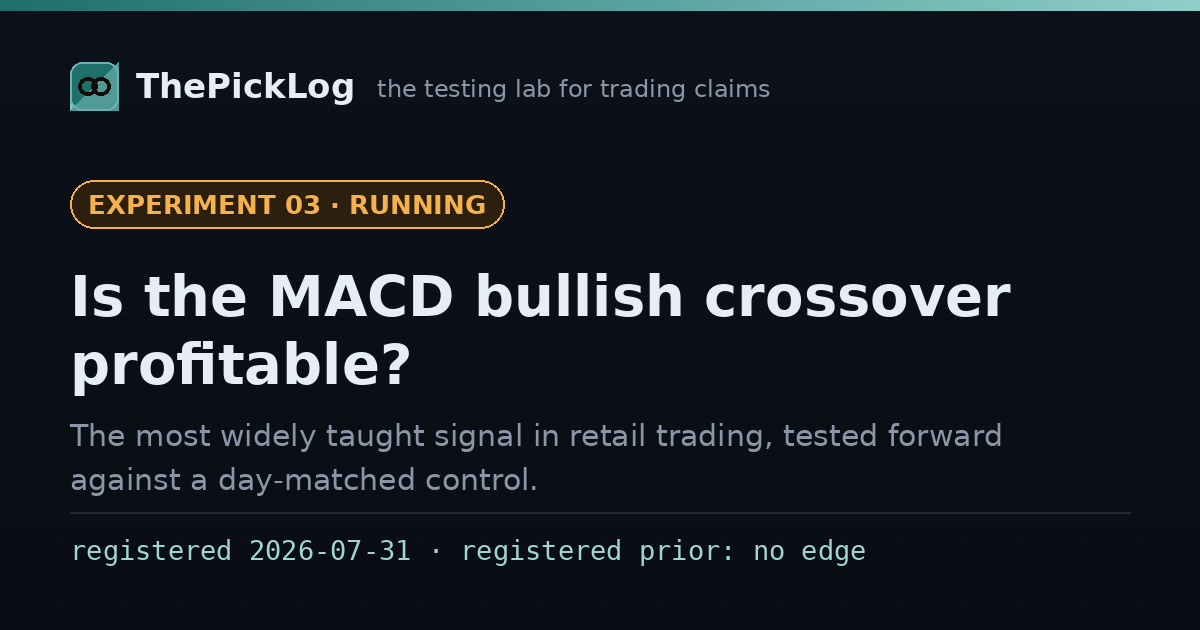
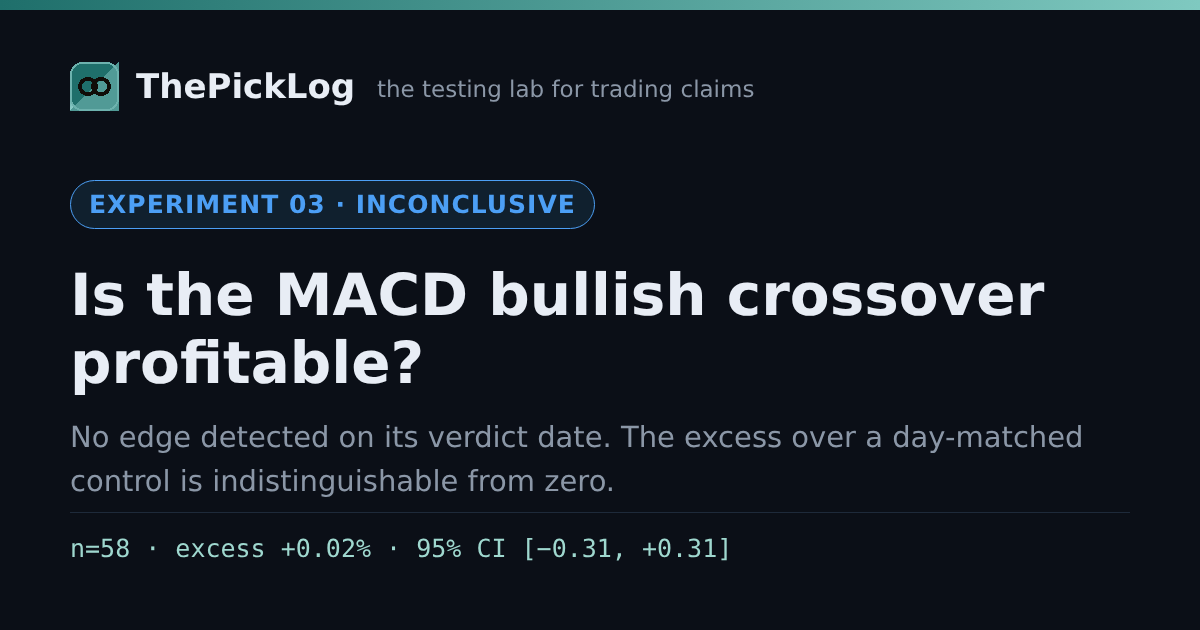
site: publish 2026-11-02 verdicts — EXP03, EXP07, EXP09 inconclusive
Three of the six family experiments met both floors on the pre-declared
verdict date and locked as NO EDGE DETECTED (-> INCONCLUSIVE under the
five-outcome legend); none survives BH across m = 8. Every number is copied
from the locked rows in experiments/HARNESS-verdicts.csv and FAMILY-fdr.csv
(fa59375). Nothing recomputed; no outcome file opened.

EXP02/06/08 had not met their floors: pages now say the date has passed
and the verdict locks automatically at the first run where they are met.

Pages, index cards, share images, feed item, sitemap, AUDIT_LOG entry.

Claude-Session: https://claude.ai/code/session_011mhJerUh5NrdKLLX2e9Rh5

diff --git a/experiments.html b/experiments.html
@@ -138,7 +138,7 @@ function toggleMenu(f){const m=document.getElementById("mobileMenu"),b=document.
     <h2 id="vcal-h" style="margin:0 0 8px;font-size:15px;letter-spacing:.04em;text-transform:uppercase">Verdict calendar</h2>
     <p style="margin:0 0 10px;font-size:14.5px">Every date below was fixed before the data it judges existed. None moves because of what the data shows.</p>
     <table style="width:100%;border-collapse:collapse;font-size:14.5px">
-      <tr><td style="padding:6px 14px 6px 0;white-space:nowrap;font-variant-numeric:tabular-nums"><b>2026-11-02</b></td><td style="padding:6px 0">Six verdicts on one date: Experiments 02, 03, 06, 07, 08 and 09, corrected together as one family</td></tr>
+      <tr id="verdicts-2026-11-02"><td style="padding:6px 14px 6px 0;white-space:nowrap;font-variant-numeric:tabular-nums"><b>2026-11-02</b></td><td style="padding:6px 0">Verdict date for 02, 03 and 06&ndash;09, corrected as one family. Read: <b>03, 07 and 09 inconclusive</b> (no edge detected); 02, 06 and 08 had not met their sample floors and lock automatically when they do</td></tr>
       <tr><td style="padding:6px 14px 6px 0;white-space:nowrap;font-variant-numeric:tabular-nums">~2027-01</td><td style="padding:6px 0">Experiment 05, first read (attribution, not a tradeable edge)</td></tr>
       <tr><td style="padding:6px 14px 6px 0;white-space:nowrap;font-variant-numeric:tabular-nums">on/after 2027-01-11</td><td style="padding:6px 0">Experiment 12, the AI-judge study, one look</td></tr>
       <tr><td style="padding:6px 14px 6px 0;white-space:nowrap;font-variant-numeric:tabular-nums">~2027-09</td><td style="padding:6px 0">Experiment 04, the turn-of-month effect</td></tr>
@@ -176,14 +176,14 @@ function toggleMenu(f){const m=document.getElementById("mobileMenu"),b=document.
     <span class="no">EXPERIMENT 02</span><span class="verdict-pill v-run">RUNNING</span>
     <h2>The 2-period RSI "high win rate" mean-reversion trade</h2>
     <p>One of the most widely published retail strategies of the last twenty years: buy a large-cap when the 2-day RSI collapses while it's still above its 200-day average. It is usually sold on its win rate. We are testing whether a high win rate survives contact with expectancy — on liquid names, where trading costs can't be blamed for the answer.</p>
-    <div class="meta">registered 2026-07-29 · verdict on/after 2026-11-02 (date fixed before looking, 2026-08-28) · universe frozen · control group logged daily</div>
+    <div class="meta">registered 2026-07-29 · verdict date 2026-11-02 passed · sample floor not yet met · the verdict locks once, automatically, at the first run where it is</div>
   </a>
 
   <a class="card" href="experiment-03.html">
-    <span class="no">EXPERIMENT 03</span><span class="verdict-pill v-run">RUNNING</span>
+    <span class="no">EXPERIMENT 03</span><span class="verdict-pill v-inc">INCONCLUSIVE</span>
     <h2>The MACD bullish crossover</h2>
     <p>Arguably the most widely taught indicator signal in retail trading — it ships on every charting platform and appears in essentially every beginner course. Which makes it the least likely thing in the world to still contain an edge, and exactly the sort of universally-believed claim nobody bothers to check. Registered prior: no edge, roughly 1 in 6 that it clears.</p>
-    <div class="meta">registered 2026-07-31 · same 40-name universe · day-matched control · live results update automatically</div>
+    <div class="meta">verdict 2026-11-02 · n=58 over 30 names · same-day excess +0.02% · 95% CI [&minus;0.31, +0.31] · BH-adjusted p = 1.00</div>
   </a>
 
   <a class="card" href="experiment-04.html">
@@ -204,28 +204,28 @@ function toggleMenu(f){const m=document.getElementById("mobileMenu"),b=document.
     <span class="no">EXPERIMENT 06</span><span class="verdict-pill v-run">RUNNING</span>
     <h2>The Supertrend flip</h2>
     <p>The most heavily marketed single indicator in retail video content, tested exactly as it is sold: default settings (10, 3), no trend filter. On forty of the most liquid stocks on earth, a signal everyone can see should already be arbitraged flat. Registered prior: no edge, roughly 1 in 6 that it clears.</p>
-    <div class="meta">registered 2026-08-06 · same 40-name universe · day-matched control · one verdict look on 2026-11-02, corrected across the 02&ndash;09 family</div>
+    <div class="meta">registered 2026-08-06 · verdict date 2026-11-02 passed · sample floor not yet met · the verdict locks once, automatically, at the first run where it is</div>
   </a>
 
   <a class="card" href="experiment-07.html">
-    <span class="no">EXPERIMENT 07</span><span class="verdict-pill v-run">RUNNING</span>
+    <span class="no">EXPERIMENT 07</span><span class="verdict-pill v-inc">INCONCLUSIVE</span>
     <h2>The moving-average pullback</h2>
     <p>Buy a stock in a long-term uptrend when it dips to its 20-day average. Probably the most widely taught swing entry in existence &mdash; and the most coherent mechanism in this batch, which earns it the highest prior: still no edge expected, roughly 1 in 5.</p>
-    <div class="meta">registered 2026-08-06 · same 40-name universe · day-matched control · one verdict look on 2026-11-02, corrected across the 02&ndash;09 family</div>
+    <div class="meta">verdict 2026-11-02 · n=138 over 31 names · same-day excess +0.04% · 95% CI [&minus;0.19, +0.28] · BH-adjusted p = 1.00</div>
   </a>
 
   <a class="card" href="experiment-08.html">
     <span class="no">EXPERIMENT 08</span><span class="verdict-pill v-run">RUNNING</span>
     <h2>Bollinger Band mean reversion</h2>
     <p>Buy the close below the lower band while the stock is above its 200-day. Sold, like Experiment 02, on its win rate &mdash; and win-rate-flattering by construction: many small reverts, occasional large losses. Tested on expectancy instead. Registered prior: roughly 1 in 6.</p>
-    <div class="meta">registered 2026-08-06 · same 40-name universe · day-matched control · one verdict look on 2026-11-02, corrected across the 02&ndash;09 family</div>
+    <div class="meta">registered 2026-08-06 · verdict date 2026-11-02 passed · sample floor not yet met · the verdict locks once, automatically, at the first run where it is</div>
   </a>
 
   <a class="card" href="experiment-09.html">
-    <span class="no">EXPERIMENT 09</span><span class="verdict-pill v-run">RUNNING</span>
+    <span class="no">EXPERIMENT 09</span><span class="verdict-pill v-inc">INCONCLUSIVE</span>
     <h2>Volatility contraction (NR7) in an uptrend</h2>
     <p>That a quiet day precedes a big day is documented. That the big day goes <i>up</i> is the part that is sold &mdash; and the part with no documented edge. One disclosed deviation: we enter at the next open, not on an intraday breakout. Registered prior: roughly 1 in 6.</p>
-    <div class="meta">registered 2026-08-06 · same 40-name universe · day-matched control · one verdict look on 2026-11-02, corrected across the 02&ndash;09 family</div>
+    <div class="meta">verdict 2026-11-02 · n=140 over 33 names · same-day excess &minus;0.06% · 95% CI [&minus;0.29, +0.15] · BH-adjusted p = 1.00</div>
   </a>
 
   <a class="card" href="experiment-12.html">

diff --git a/experiment-09.html b/experiment-09.html
@@ -7,7 +7,7 @@
 <meta name="description" content="The NR7 volatility-contraction setup in an uptrend, tested forward with the rule, universe, costs and pass bar frozen in advance &mdash; including a disclosed deviation from the version that is sold.">
 <link rel="canonical" href="https://thepicklog.com/experiment-09.html">
 <meta property="og:title" content="Does a quiet day predict a move up?">
-<meta property="og:description" content="Volatility contraction (NR7) in an uptrend, tested forward against a day-matched control. Rule frozen, verdict published either way.">
+<meta property="og:description" content="Verdict 2026-11-02: inconclusive. No edge detected over 140 trades; the excess over a day-matched control is indistinguishable from zero.">
 <meta property="og:type" content="article">
 <style>
   :root{--a-text:#31b3aa;--bg:#0a0e14;--panel:#121826;--panel2:#0f1521;--line:#1f2937;--tx:#e6edf3;--dim:#8b97a7;
@@ -137,14 +137,16 @@ function toggleMenu(f){const m=document.getElementById("mobileMenu"),b=document.
 </script>
 
 <div class="wrap" id="main" tabindex="-1">
-  <span class="no">EXPERIMENT 09 · REGISTERED 2026-08-06 · RUNNING</span>
+  <span class="no">EXPERIMENT 09 · REGISTERED 2026-08-06 · VERDICT 2026-11-02 · INCONCLUSIVE</span>
   <h1>The quiet before the breakout</h1>
   <p class="standfirst">Breakout courses teach that the narrowest trading range in a week &mdash; an &ldquo;NR7&rdquo; day &mdash; is a coiled spring, and that in an uptrend it springs upward. This page is the rule, frozen, before the trades existed, including one place where our test differs from what is sold.</p>
 
-  <div class="status">
-    <div class="h">STATUS</div>
-    <div class="b">Registered and running. Verdict date: 2026-11-02.</div>
-    <p>Signals are logged automatically after each close and graded five sessions later. No verdict language of any kind is computed before 2026-11-02, and none is computed then unless both sample floors below are met. The running count is in the <a href="reports/experiments-LATEST.md">live experiments report</a>, regenerated by the scheduled job &mdash; and the verdict will be published here either way.</p>
+  <div class="status" style="border-color:#24405a;background:#10202e">
+    <div class="h" style="color:var(--blue)">VERDICT &middot; 2026-11-02 &middot; INCONCLUSIVE</div>
+    <div class="b">No edge detected. The excess is indistinguishable from zero.</div>
+    <p>140 post-registration trades over 33 companies &middot; same-day excess over the day-matched control, net of costs: mean <b>&minus;0.06%</b>, median <b>&minus;0.01%</b> &middot; company-clustered 95% CI <b>[&minus;0.29, +0.15]</b> percentage points, which includes zero.</p>
+    <p style="margin-top:8px">Across the declared family of eight experiments (02&ndash;09), Benjamini&ndash;Hochberg adjusted p = 1.00 (raw two-sided p = 0.65): <b>no discovery to correct</b>. Our registered prior was exactly this. &ldquo;Inconclusive&rdquo; is not &ldquo;failed&rdquo;: the interval rules out a large edge in either direction, but it neither confirms nor refutes a small one. <b>Disclosed deviation:</b> entry is the next session&rsquo;s open, not an intraday break of the NR7 range, because our pre-open logging gate forbids acting on the open print.</p>
+    <p style="margin-top:8px">Computed once, at the pre-declared verdict date, written to an append-only file and never recomputed: see the <code>EXP09-NR7</code> rows in <a href="experiments/HARNESS-verdicts.csv">HARNESS-verdicts.csv</a> and <a href="experiments/FAMILY-fdr.csv">FAMILY-fdr.csv</a>, and the <a href="reports/family-verdict-LATEST.md">family verdict report</a>. Scope: this rule, on these 40 names, over this window &mdash; not evidence about volatility contraction in general, or an intraday breakout entry. Experiments 06&ndash;09 share one universe, so they are correlated tests, not independent replications.</p>
   </div>
 
   <h2>Why this one</h2>
@@ -195,7 +197,7 @@ function toggleMenu(f){const m=document.getElementById("mobileMenu"),b=document.
   <p>And if it <i>does</i> clear the bar, we will say so &mdash; and then say how many other things we tested at the same time, because that is the number that tells you how surprised to be.</p>
 
   <h2>How you&rsquo;ll be able to check it</h2>
-  <p>Every signal is written to <code>experiments/EXP09-NR7-signals.csv</code> before its entry session, and the graded outcomes alongside it &mdash; both public and append-only. The frozen rule lives in <a href="HYPOTHESES.md">HYPOTHESES.md</a> as H-EXP09 (registration batch #10), with the constants in <code>experiment_harness.py</code>. The verdict is written once to an append-only verdicts file, recorded in the <a href="AUDIT_LOG.md">audit log</a>, and written up on this page.</p>
+  <p>Every signal is written to <code>experiments/EXP09-NR7-signals.csv</code> before its entry session, and the graded outcomes alongside it &mdash; both public and append-only. The frozen rule lives in <a href="HYPOTHESES.md">HYPOTHESES.md</a> as H-EXP09 (registration batch #10), with the constants in <code>experiment_harness.py</code>. The verdict is written once to an append-only verdicts file, recorded in the <a href="AUDIT_LOG.md">audit log</a>, and written up at the top of this page.</p>
   <p>If we change any constant in that rule, the test is void and we&rsquo;ll say so. That&rsquo;s the deal on every experiment here.</p>
 
   <div class="box">

diff --git a/experiment-03.html b/experiment-03.html
@@ -7,7 +7,7 @@
 <meta name="description" content="The most widely taught indicator signal in retail trading, tested forward with the rule, the universe, the costs and the pass bar frozen in advance. Verdict published either way.">
 <link rel="canonical" href="https://thepicklog.com/experiment-03.html">
 <meta property="og:title" content="Is the MACD bullish crossover profitable?">
-<meta property="og:description" content="It ships on every charting platform and appears in every beginner course. Rule frozen, control logged daily, verdict published either way.">
+<meta property="og:description" content="Verdict 2026-11-02: inconclusive. No edge detected over 58 trades; the excess over a day-matched control is indistinguishable from zero.">
 <meta property="og:type" content="article">
 <style>
   :root{--a-text:#31b3aa;--bg:#0a0e14;--panel:#121826;--panel2:#0f1521;--line:#1f2937;--tx:#e6edf3;--dim:#8b97a7;
@@ -137,14 +137,16 @@ function toggleMenu(f){const m=document.getElementById("mobileMenu"),b=document.
 </script>
 
 <div class="wrap" id="main" tabindex="-1">
-  <span class="no">EXPERIMENT 03 · REGISTERED 2026-07-31 · RUNNING</span>
+  <span class="no">EXPERIMENT 03 · REGISTERED 2026-07-31 · VERDICT 2026-11-02 · INCONCLUSIVE</span>
   <h1>The most-taught signal in retail trading</h1>
   <p class="standfirst">The MACD bullish crossover ships on every charting platform and appears in essentially every beginner course. It is so widely known that finding an edge in it would be genuinely surprising — which is exactly why nobody seems to have checked. This page is the rule, frozen, before the trades exist.</p>
 
-  <div class="status">
-    <div class="h">STATUS</div>
-    <div class="b">Registered and running. Verdict date: 2026-11-02.</div>
-    <p>Signals are logged automatically after each close and graded five sessions later. No verdict language is computed before 2026-11-02, and none then unless at least 30 post-registration trades over at least 20 different companies are graded. The running count and the current numbers are in the <a href="reports/experiments-LATEST.md">live experiments report</a>, regenerated by the scheduled job — and the verdict will be published here either way.</p>
+  <div class="status" style="border-color:#24405a;background:#10202e">
+    <div class="h" style="color:var(--blue)">VERDICT &middot; 2026-11-02 &middot; INCONCLUSIVE</div>
+    <div class="b">No edge detected. The excess is indistinguishable from zero.</div>
+    <p>58 post-registration trades over 30 companies &middot; same-day excess over the day-matched control, net of costs: mean <b>+0.02%</b>, median <b>+0.12%</b> &middot; company-clustered 95% CI <b>[&minus;0.31, +0.31]</b> percentage points, which includes zero.</p>
+    <p style="margin-top:8px">Across the declared family of eight experiments (02&ndash;09), Benjamini&ndash;Hochberg adjusted p = 1.00 (raw two-sided p = 0.89): <b>no discovery to correct</b>. Our registered prior was exactly this. &ldquo;Inconclusive&rdquo; is not &ldquo;failed&rdquo;: the interval rules out a large edge in either direction, but it neither confirms nor refutes a small one.</p>
+    <p style="margin-top:8px">Computed once, at the pre-declared verdict date, written to an append-only file and never recomputed: see the <code>EXP03-MACD</code> rows in <a href="experiments/HARNESS-verdicts.csv">HARNESS-verdicts.csv</a> and <a href="experiments/FAMILY-fdr.csv">FAMILY-fdr.csv</a>, and the <a href="reports/family-verdict-LATEST.md">family verdict report</a>. Scope: this rule, on these 40 names, over this window &mdash; not evidence about MACD in general, or trend following as a family. Experiments 06&ndash;09 share one universe, so they are correlated tests, not independent replications.</p>
   </div>
 
   <h2>Why this one</h2>
@@ -190,7 +192,7 @@ function toggleMenu(f){const m=document.getElementById("mobileMenu"),b=document.
   <p>And if it <i>does</i> clear the bar, that is a genuinely surprising result and we will say so — with the same caveats about scope that apply to every verdict here.</p>
 
   <h2>How you'll be able to check it</h2>
-  <p>Every signal is written to <code>experiments/EXP03-MACD-signals.csv</code> before its entry session, and the graded outcomes alongside it — both public and append-only. The complete frozen rule lives in <a href="HYPOTHESES.md">HYPOTHESES.md</a> as H-EXP03, dated, with the constants in <code>experiment_harness.py</code>. The running numbers regenerate into the <a href="reports/experiments-LATEST.md">live experiments report</a>, and the verdict will be recorded in the <a href="AUDIT_LOG.md">audit log</a> and written up on this page.</p>
+  <p>Every signal is written to <code>experiments/EXP03-MACD-signals.csv</code> before its entry session, and the graded outcomes alongside it — both public and append-only. The complete frozen rule lives in <a href="HYPOTHESES.md">HYPOTHESES.md</a> as H-EXP03, dated, with the constants in <code>experiment_harness.py</code>. The running numbers regenerate into the <a href="reports/experiments-LATEST.md">live experiments report</a>, and the verdict is recorded in the <a href="AUDIT_LOG.md">audit log</a> and written up at the top of this page.</p>
   <p>If we change any constant in that rule, the test is void and we'll say so. That's the deal on every experiment here.</p>
 
   <div class="box">

diff --git a/experiment-07.html b/experiment-07.html
@@ -7,7 +7,7 @@
 <meta name="description" content="The moving-average pullback &mdash; buy the dip to the 20-day in an uptrend &mdash; tested forward with the rule, universe, costs and pass bar frozen in advance.">
 <link rel="canonical" href="https://thepicklog.com/experiment-07.html">
 <meta property="og:title" content="Does buying the pullback in an uptrend work?">
-<meta property="og:description" content="The most widely taught swing-trading entry, tested forward against a day-matched control. Rule frozen, verdict published either way.">
+<meta property="og:description" content="Verdict 2026-11-02: inconclusive. No edge detected over 138 trades; the excess over a day-matched control is indistinguishable from zero.">
 <meta property="og:type" content="article">
 <style>
   :root{--a-text:#31b3aa;--bg:#0a0e14;--panel:#121826;--panel2:#0f1521;--line:#1f2937;--tx:#e6edf3;--dim:#8b97a7;
@@ -137,14 +137,16 @@ function toggleMenu(f){const m=document.getElementById("mobileMenu"),b=document.
 </script>
 
 <div class="wrap" id="main" tabindex="-1">
-  <span class="no">EXPERIMENT 07 · REGISTERED 2026-08-06 · RUNNING</span>
+  <span class="no">EXPERIMENT 07 · REGISTERED 2026-08-06 · VERDICT 2026-11-02 · INCONCLUSIVE</span>
   <h1>Buy the dip in an uptrend</h1>
   <p class="standfirst">Nearly every swing-trading course teaches some version of it: wait for a stock in a long-term uptrend to pull back to its 20-day average, then buy the bounce. It is probably the most widely taught entry in existence. This page is the rule, frozen, before the trades existed.</p>
 
-  <div class="status">
-    <div class="h">STATUS</div>
-    <div class="b">Registered and running. Verdict date: 2026-11-02.</div>
-    <p>Signals are logged automatically after each close and graded five sessions later. No verdict language of any kind is computed before 2026-11-02, and none is computed then unless both sample floors below are met. The running count is in the <a href="reports/experiments-LATEST.md">live experiments report</a>, regenerated by the scheduled job &mdash; and the verdict will be published here either way.</p>
+  <div class="status" style="border-color:#24405a;background:#10202e">
+    <div class="h" style="color:var(--blue)">VERDICT &middot; 2026-11-02 &middot; INCONCLUSIVE</div>
+    <div class="b">No edge detected. The excess is indistinguishable from zero.</div>
+    <p>138 post-registration trades over 31 companies &middot; same-day excess over the day-matched control, net of costs: mean <b>+0.04%</b>, median <b>+0.17%</b> &middot; company-clustered 95% CI <b>[&minus;0.19, +0.28]</b> percentage points, which includes zero.</p>
+    <p style="margin-top:8px">Across the declared family of eight experiments (02&ndash;09), Benjamini&ndash;Hochberg adjusted p = 1.00 (raw two-sided p = 0.73): <b>no discovery to correct</b>. Our registered prior was exactly this. &ldquo;Inconclusive&rdquo; is not &ldquo;failed&rdquo;: the interval rules out a large edge in either direction, but it neither confirms nor refutes a small one.</p>
+    <p style="margin-top:8px">Computed once, at the pre-declared verdict date, written to an append-only file and never recomputed: see the <code>EXP07-SMAPULL</code> rows in <a href="experiments/HARNESS-verdicts.csv">HARNESS-verdicts.csv</a> and <a href="experiments/FAMILY-fdr.csv">FAMILY-fdr.csv</a>, and the <a href="reports/family-verdict-LATEST.md">family verdict report</a>. Scope: this rule, on these 40 names, over this window &mdash; not evidence about pullback trading in general, or other moving averages and universes. Experiments 06&ndash;09 share one universe, so they are correlated tests, not independent replications.</p>
   </div>
 
   <h2>Why this one</h2>
@@ -190,7 +192,7 @@ function toggleMenu(f){const m=document.getElementById("mobileMenu"),b=document.
   <p>And if it <i>does</i> clear the bar, we will say so &mdash; and then say how many other things we tested at the same time, because that is the number that tells you how surprised to be.</p>
 
   <h2>How you&rsquo;ll be able to check it</h2>
-  <p>Every signal is written to <code>experiments/EXP07-SMAPULL-signals.csv</code> before its entry session, and the graded outcomes alongside it &mdash; both public and append-only. The frozen rule lives in <a href="HYPOTHESES.md">HYPOTHESES.md</a> as H-EXP07 (registration batch #10), with the constants in <code>experiment_harness.py</code>. The verdict is written once to an append-only verdicts file, recorded in the <a href="AUDIT_LOG.md">audit log</a>, and written up on this page.</p>
+  <p>Every signal is written to <code>experiments/EXP07-SMAPULL-signals.csv</code> before its entry session, and the graded outcomes alongside it &mdash; both public and append-only. The frozen rule lives in <a href="HYPOTHESES.md">HYPOTHESES.md</a> as H-EXP07 (registration batch #10), with the constants in <code>experiment_harness.py</code>. The verdict is written once to an append-only verdicts file, recorded in the <a href="AUDIT_LOG.md">audit log</a>, and written up at the top of this page.</p>
   <p>If we change any constant in that rule, the test is void and we&rsquo;ll say so. That&rsquo;s the deal on every experiment here.</p>
 
   <div class="box">

diff --git a/index.html b/index.html
@@ -210,6 +210,7 @@
     border-radius:999px;vertical-align:middle;margin-left:6px;font-family:inherit}
   .exp-pill.v-fail{background:#3a1c22;color:#ffb3c0;border:1px solid #5a2a33}
   .exp-pill.v-run{background:#2a1d10;color:var(--amber);border:1px solid #5a3a22}
+  .exp-pill.v-inc{background:#10202e;color:var(--blue);border:1px solid #24405a}
   .exp-pill.v-pass{background:#12331f;color:var(--green);border:1px solid #23543a}
   .exp-meta{margin-top:11px;font-size:11.5px;color:var(--muted);font-family:var(--mono);opacity:.8}
   /* waitlist capture on the coming-soon tiers */
@@ -580,7 +581,7 @@
         <h2 style="margin:0;font-size:19px">The experiments</h2>
         <a href="experiments.html" style="margin-left:auto;font-size:13.5px;color:var(--blue);text-decoration:none">All experiments &amp; how they work &rarr;</a>
       </div>
-      <p class="muted" style="font-size:13.5px;margin:6px 0 0;max-width:78ch"><b>One finished. Nine running in public right now.</b> Each is a claim someone is selling, written down as an exact rule with a date, then graded forward against a control it has to beat.</p>
+      <p class="muted" style="font-size:13.5px;margin:6px 0 0;max-width:78ch"><b>Four decided, six running in public right now.</b> Each is a claim someone is selling, written down as an exact rule with a date, then graded forward against a control it has to beat.</p>
       <div class="grid exp-cards">
         <a class="panel exp-card" href="experiment-01.html">
           <div class="exp-no">EXPERIMENT 01 <span class="exp-pill v-fail">FAILED</span></div>
@@ -592,13 +593,13 @@
           <div class="exp-no">EXPERIMENT 02 <span class="exp-pill v-run">RUNNING</span></div>
           <h3>The 2-period RSI "high win rate" trade</h3>
           <p>The most published retail setup of the last twenty years, always sold on its win rate. We're testing whether a high win rate survives contact with expectancy.</p>
-          <div class="exp-meta">registered 2026-07-29 &middot; <b>verdict on/after 2 Nov 2026</b></div>
+          <div class="exp-meta">registered 2026-07-29 &middot; <b>verdict date passed; locks when the sample floor is met</b></div>
         </a>
         <a class="panel exp-card" href="experiment-03.html">
-          <div class="exp-no">EXPERIMENT 03 <span class="exp-pill v-run">RUNNING</span></div>
+          <div class="exp-no">EXPERIMENT 03 <span class="exp-pill v-inc">INCONCLUSIVE</span></div>
           <h3>The MACD bullish crossover</h3>
-          <p>The most widely taught indicator signal in retail trading — which makes it the least likely to still contain an edge, and exactly the claim nobody bothers to check.</p>
-          <div class="exp-meta">registered 2026-07-31 &middot; <b>verdict due 2 Nov 2026</b></div>
+          <p>The most widely taught indicator signal in retail trading. Read on its verdict date: no edge detected &mdash; as were the moving-average pullback (07) and NR7 (09).</p>
+          <div class="exp-meta">verdict 2026-11-02 &middot; n=58 &middot; <b>excess +0.02%, CI includes zero</b></div>
         </a>
         <a class="panel exp-card" href="experiment-04.html">
           <div class="exp-no">EXPERIMENT 04 <span class="exp-pill v-run">RUNNING</span></div>

diff --git a/guide.html b/guide.html
@@ -220,7 +220,7 @@ function toggleMenu(force){
   <p class="flag r">✕ Red flag: "read the model's reasoning" offered in place of a comparison against the simpler alternative.</p>
 
   <div class="panel">
-    <b>Where we stand on 8&ndash;10.</b> #8: partly. Our 25-test calendar sweep was corrected for multiple testing (none survived), and <a href="how-many-did-you-test.html">our own count of tests is published</a>. The experiments running now are registered as one family with a Benjamini&ndash;Hochberg correction declared in advance; that correction was built into code on 23 October 2026, before any of them was read, and is applied mechanically on the 2 November read (<code>family_verdict.py</code>). #9: yes &mdash; every verdict carries a 95% interval built on the right independent unit: the company for the stock-picking tests, the monthly cycle or the week for the calendar tests, never the single trade. #10: we don&rsquo;t publish an AI&rsquo;s calls yet. When we do, it will be graded against the plain score it sees and checked for calibration, exactly as described above, before any of its output is shown as more than a test.
+    <b>Where we stand on 8&ndash;10.</b> #8: partly. Our 25-test calendar sweep was corrected for multiple testing (none survived), and <a href="how-many-did-you-test.html">our own count of tests is published</a>. The experiments running now are registered as one family with a Benjamini&ndash;Hochberg correction declared in advance; that correction was built into code on 23 October 2026, before any of them was read, and was applied mechanically on the 2 November read (<code>family_verdict.py</code>): three experiments locked, none survived it, and the rest are corrected the same way when they lock. #9: yes &mdash; every verdict carries a 95% interval built on the right independent unit: the company for the stock-picking tests, the monthly cycle or the week for the calendar tests, never the single trade. #10: we don&rsquo;t publish an AI&rsquo;s calls yet. When we do, it will be graded against the plain score it sees and checked for calibration, exactly as described above, before any of its output is shown as more than a test.
   </div>
 
   <h2>The 60-second version</h2>

diff --git a/experiment-02.html b/experiment-02.html
@@ -144,7 +144,8 @@ function toggleMenu(f){const m=document.getElementById("mobileMenu"),b=document.
 
   <div class="status">
     <div class="h">STATUS</div>
-    <div class="b">Registered and running. No verdict yet.</div>
+    <div class="b">Past its verdict date (2026-11-02). Sample floor not yet met, so no verdict yet.</div>
+    <p style="margin-bottom:8px">On 2026-11-02 this experiment had not yet reached both pre-registered floors (at least 30 graded trades <i>and</i> at least 20 different companies). Under the rule fixed in advance, the verdict is computed automatically, once, at the first daily run where both floors are met, and published here either way. Until then the page shows no verdict language. The running count is in the <a href="reports/experiments-LATEST.md">live experiments report</a>.</p>
     <p>Signals are logged automatically each session and graded five sessions later. <b>The verdict is written once, on or after 2 November 2026</b>, and published whether it passes or fails.</p>
     <p><b>Why not September, as this page first said.</b> When we registered this test we said "around September, once 30 trades exist." On 28 August, before opening any outcome file, we noticed that wording left the verdict date open: we could have declared it on whichever week the result first looked good. That is the multiple-looks problem this site exists to catch in other people's records. So we fixed one evaluation date in advance (2 November, the date already set for Experiments 03 and 06–09, so the whole family can be corrected for multiple testing together) and added a floor of at least 20 distinct companies. Both changes can only make a pass harder. The amendment is dated in <a href="HYPOTHESES.md">HYPOTHESES.md</a>. This page should have said so at the time; it now does.</p>
   </div>

diff --git a/experiment-06.html b/experiment-06.html
@@ -143,7 +143,8 @@ function toggleMenu(f){const m=document.getElementById("mobileMenu"),b=document.
 
   <div class="status">
     <div class="h">STATUS</div>
-    <div class="b">Registered and running. Verdict date: 2026-11-02.</div>
+    <div class="b">Past its verdict date (2026-11-02). Sample floor not yet met, so no verdict yet.</div>
+    <p style="margin-bottom:8px">On 2026-11-02 this experiment had not yet reached both pre-registered floors (at least 30 graded trades <i>and</i> at least 20 different companies). Under the rule fixed in advance, the verdict is computed automatically, once, at the first daily run where both floors are met, and published here either way. Until then the page shows no verdict language. The running count is in the <a href="reports/experiments-LATEST.md">live experiments report</a>.</p>
     <p>Signals are logged automatically after each close and graded five sessions later. No verdict language of any kind is computed before 2026-11-02, and none is computed then unless both sample floors below are met. The running count is in the <a href="reports/experiments-LATEST.md">live experiments report</a>, regenerated by the scheduled job &mdash; and the verdict will be published here either way.</p>
   </div>
 

diff --git a/experiment-08.html b/experiment-08.html
@@ -143,7 +143,8 @@ function toggleMenu(f){const m=document.getElementById("mobileMenu"),b=document.
 
   <div class="status">
     <div class="h">STATUS</div>
-    <div class="b">Registered and running. Verdict date: 2026-11-02.</div>
+    <div class="b">Past its verdict date (2026-11-02). Sample floor not yet met, so no verdict yet.</div>
+    <p style="margin-bottom:8px">On 2026-11-02 this experiment had not yet reached both pre-registered floors (at least 30 graded trades <i>and</i> at least 20 different companies). Under the rule fixed in advance, the verdict is computed automatically, once, at the first daily run where both floors are met, and published here either way. Until then the page shows no verdict language. The running count is in the <a href="reports/experiments-LATEST.md">live experiments report</a>.</p>
     <p>Signals are logged automatically after each close and graded five sessions later. No verdict language of any kind is computed before 2026-11-02, and none is computed then unless both sample floors below are met. The running count is in the <a href="reports/experiments-LATEST.md">live experiments report</a>, regenerated by the scheduled job &mdash; and the verdict will be published here either way.</p>
   </div>
 

diff --git a/AUDIT_LOG.md b/AUDIT_LOG.md
@@ -1,5 +1,19 @@
 # ThePickLog — Audit Log
 
+## 2026-11-06 — Change: 2026-11-02 verdicts published (EXP03, EXP07, EXP09 — INCONCLUSIVE)
+
+The single pre-declared verdict read for the EXP02–09 family ran on 2026-11-02. Three experiments met both floors and locked; this change publishes them. **Nothing was recomputed.**
+
+- **Source of every number:** the locked rows in `experiments/HARNESS-verdicts.csv` and `experiments/FAMILY-fdr.csv` as committed in `fa59375` (2026-11-02). No signal or outcome file was opened to write the pages; the values were copied by script from those two files.
+- **Locked results** (same-day excess over the day-matched control, net of 0.1% cost; company-clustered 95% CI; BH across m = 8, unlocked experiments counted as p = 1):
+  - EXP03-MACD — n = 58 over 30 names; mean +0.023%, median +0.117%; CI [−0.307, +0.313]; p = 0.887, BH-adjusted 1.0.
+  - EXP07-SMAPULL — n = 138 over 31 names; mean +0.042%, median +0.173%; CI [−0.189, +0.277]; p = 0.733, BH-adjusted 1.0.
+  - EXP09-NR7 — n = 140 over 33 names; mean −0.057%, median −0.011%; CI [−0.295, +0.153]; p = 0.651, BH-adjusted 1.0.
+- **Verdict word:** harness "NO EDGE DETECTED" (CI includes zero) maps to **INCONCLUSIVE** under the five-outcome legend on `experiments.html`. Not described as a failure anywhere.
+- **Not locked:** EXP02, EXP06 and EXP08 had not met both floors (≥ 30 graded, ≥ 20 names) on 2026-11-02. Their pages now say the date has passed and the verdict locks automatically, once, at the first run where the floors are met. No running number was added to any page for them.
+- **Changed:** `experiment-03/07/09.html` (verdict box replaces the status box; og/twitter descriptions), `experiment-02/06/08.html` (status wording), `experiments.html` (pills, meta lines, verdict-calendar row), `index.html` (headline count, Exp 03 card, Exp 02 meta), `guide.html` (one sentence: the BH read happened), share images `og/experiment-03/07/09.png`, one `feed.xml` item, `sitemap.xml` lastmod.
+- **Knock-on:** the counsel brief should now say verdicts for 03/07/09 are published.
+
 ## 2026-10-31 — Weekly verifiability audit — **⚠ Issues found (1)**
 
 *Snapshot: live build `4221356` ("data: scan 2026-10-31"). Both served CSVs match `origin/main@4221356` byte for byte (SHA-256 `ab9ab6f3…` picks, `f8d6cabd…` outcomes). Latest cohort is 10-30.*
